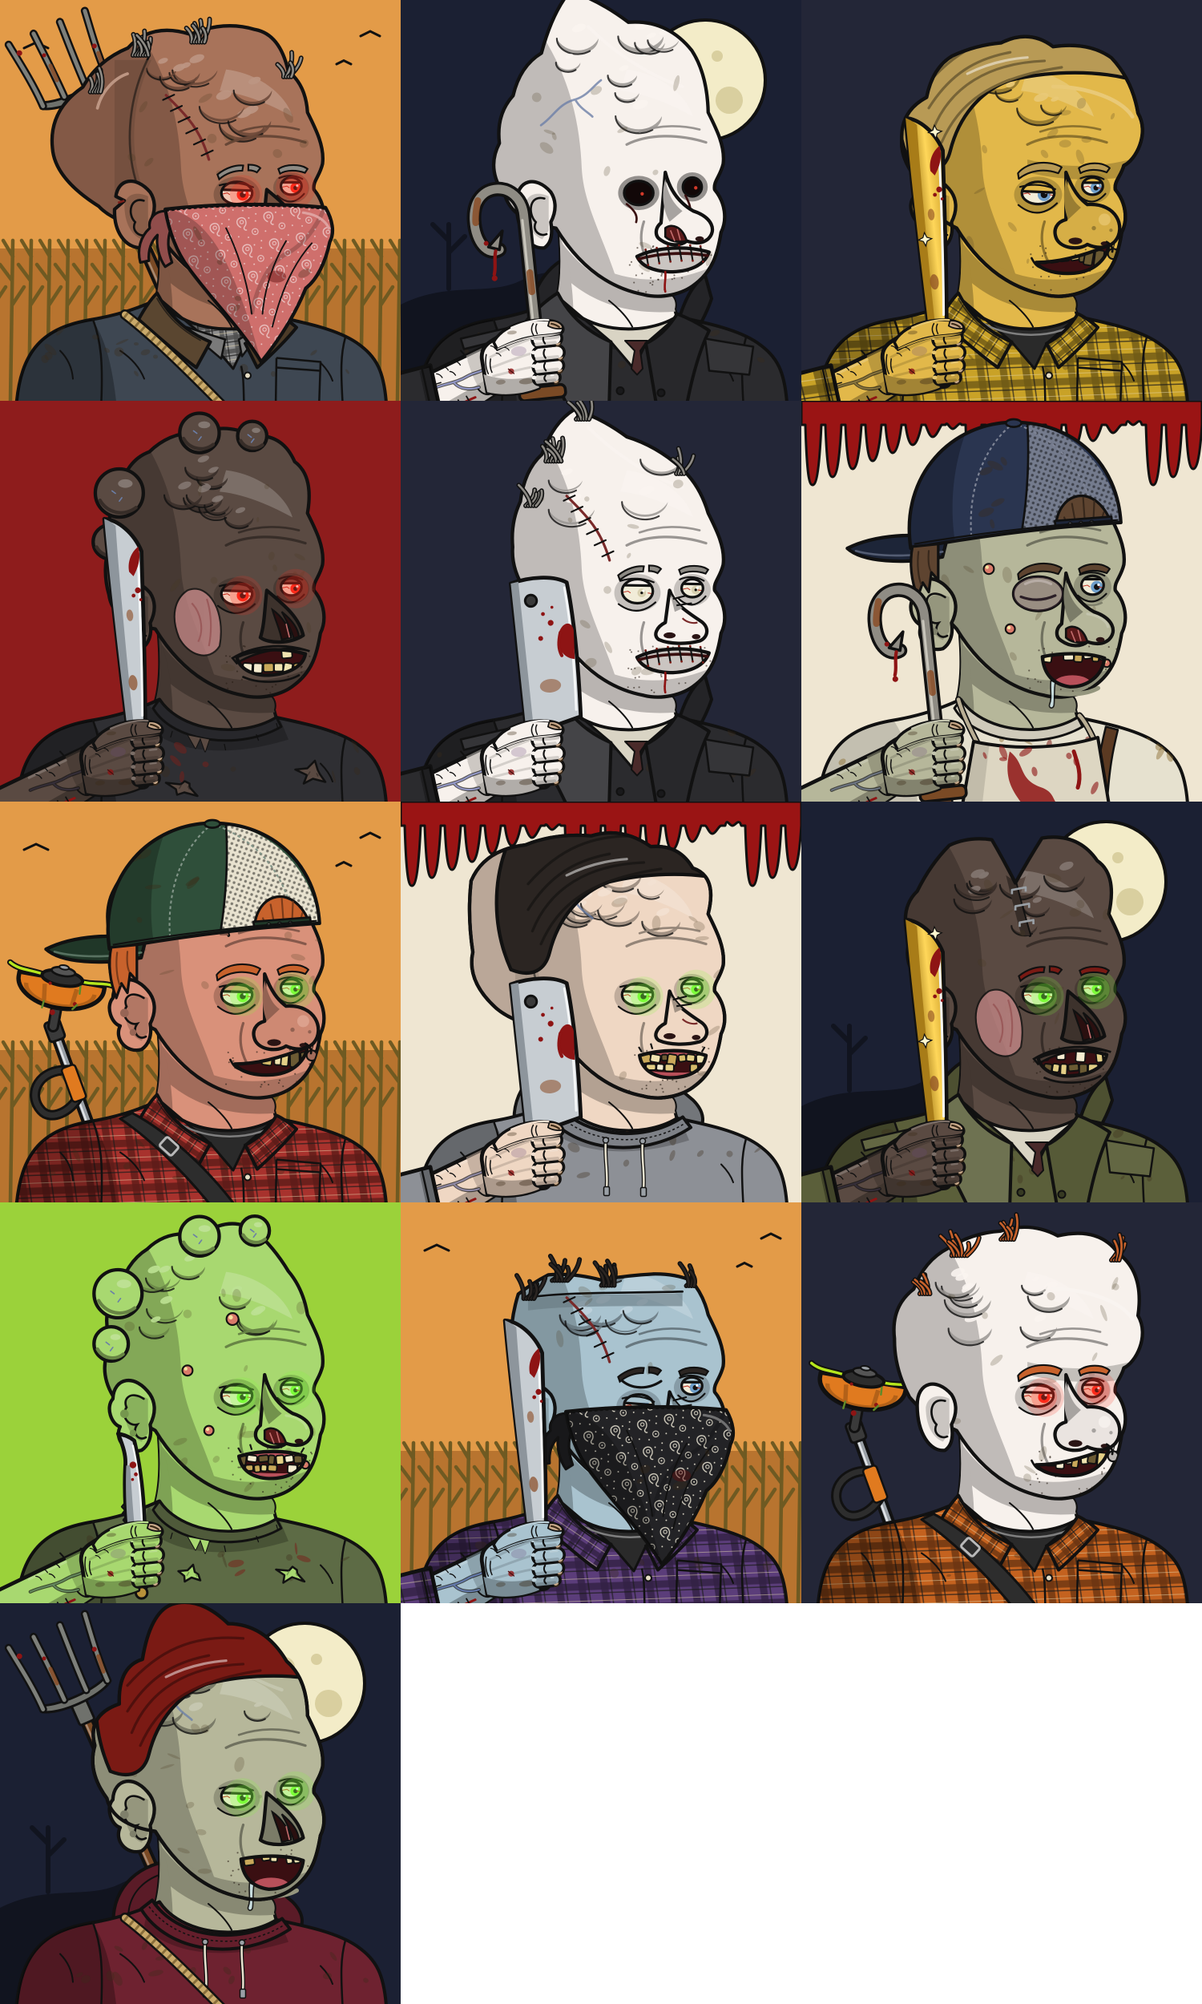
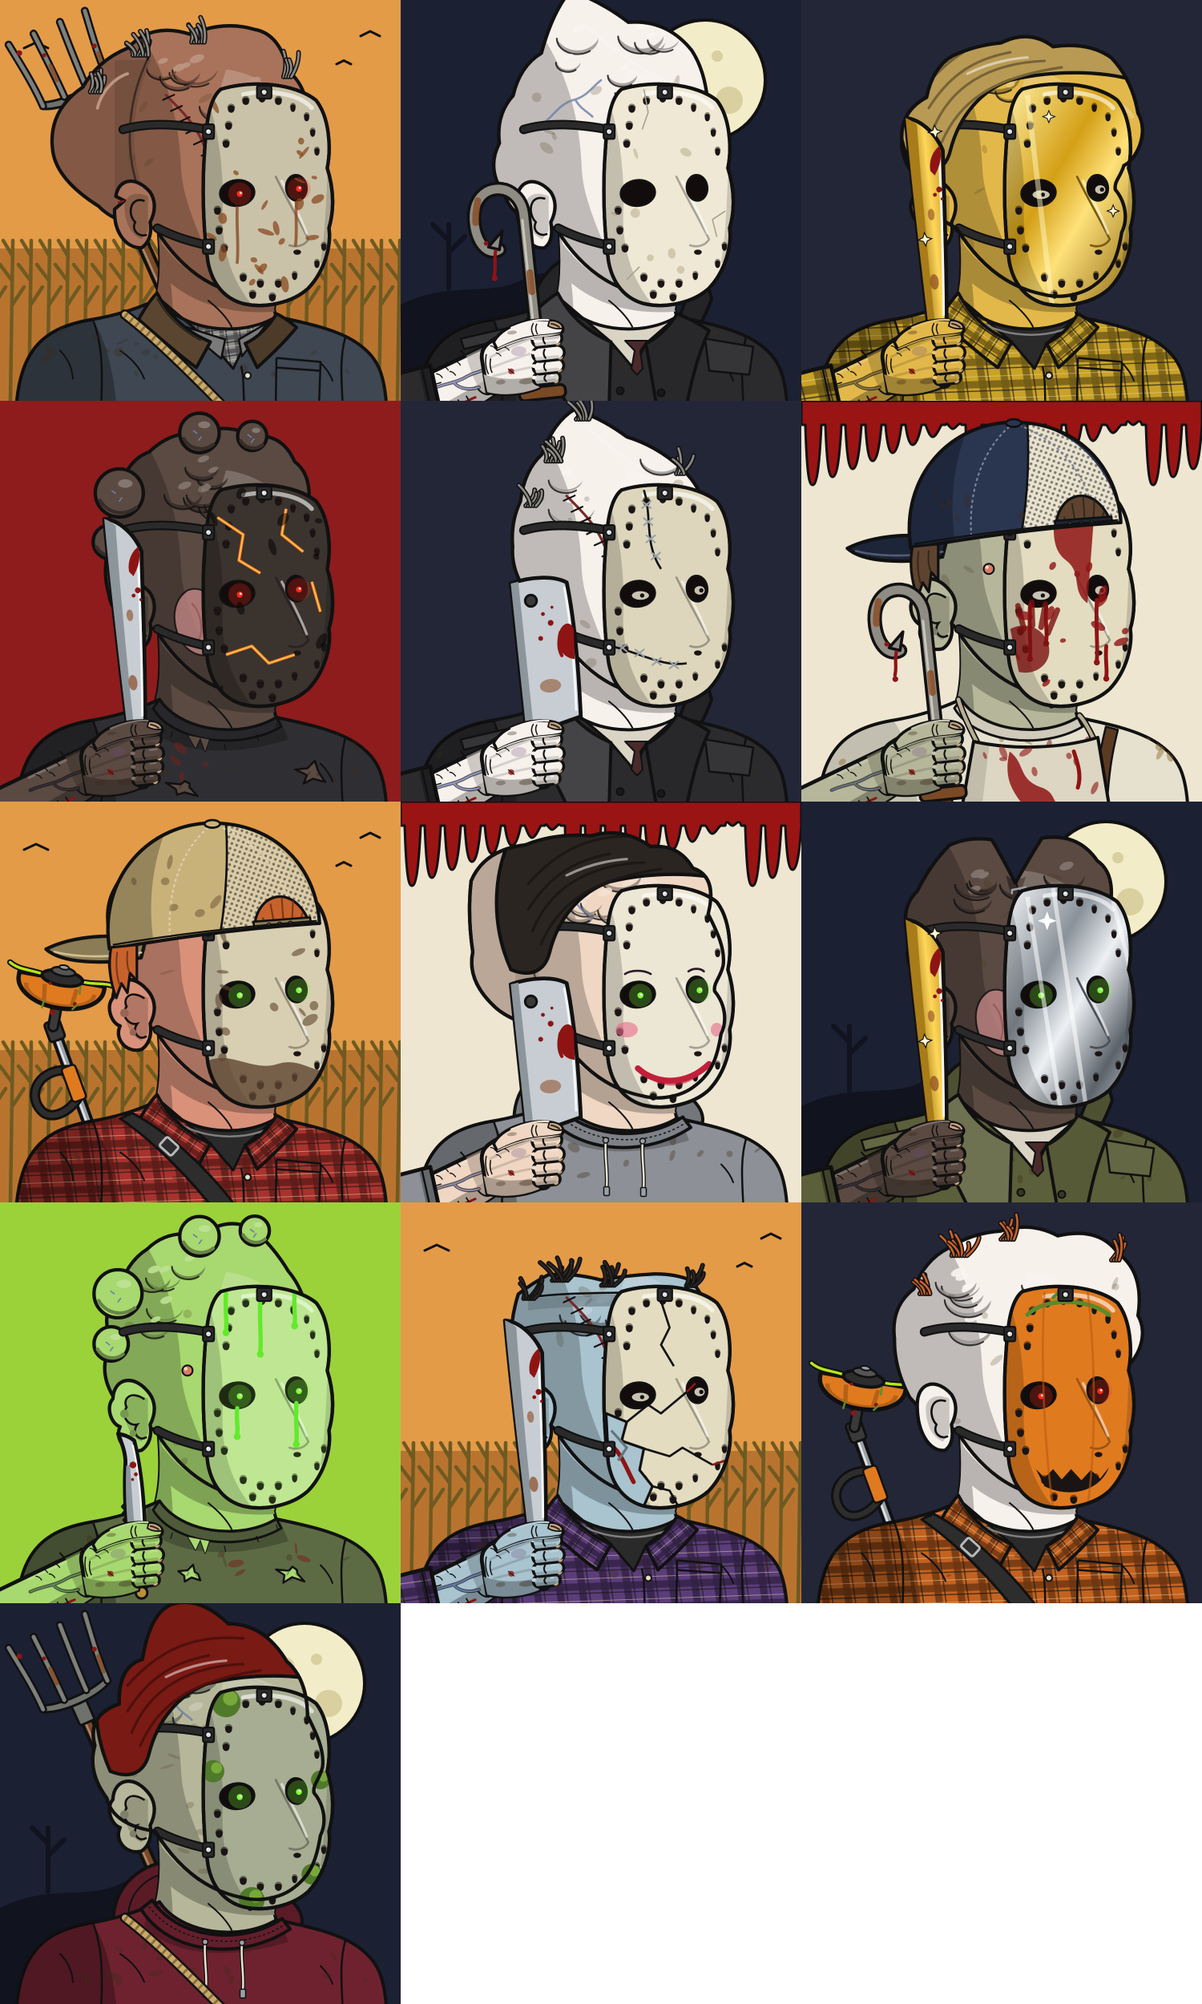
Give each 1/1 its own goalie mask finish
13 original goalie masks (Chrome, Bloody, Broken, Gold, Charred, Bone,
Rusted, Stitched, Muddy, Lipstick, Toxic, Jack-o'-Lantern, Mossy) as a
1/1-only Mask trait; masks replace the bandana.

Claude-Session: https://claude.ai/code/session_017UCt1z2AuBV5KmMuNTHD9R

diff --git a/generator/traits.py b/generator/traits.py
@@ -916,3 +916,155 @@ def bandana(kind, rng):
            # rolled top hem
            f'<path d="M 420 520 C 520 508 680 504 792 516" fill="none" stroke="{OUT}" stroke-width="3" stroke-dasharray="7 6"/>']
     return "".join(out)
+
+
+# --------------------------------------------------------------------------
+# Goalie masks (1/1 exclusive). Original design: breathing holes, straps and
+# rivets, each finish with its own markings.
+# --------------------------------------------------------------------------
+MASK_D = ("M 548 236 C 620 214 720 222 770 262 C 800 300 806 370 796 420 "
+          "C 812 470 812 520 800 560 C 806 600 790 660 752 700 "
+          "C 716 734 650 748 600 736 C 556 724 528 690 518 640 "
+          "C 506 560 504 460 510 380 C 514 310 522 256 548 236 Z")
+MASK_HOLES = ([(572, 282), (606, 264), (644, 258), (682, 264), (716, 280), (748, 302),
+               (566, 322), (762, 338), (560, 364), (772, 382)]
+              + [(540, 520), (544, 566), (556, 608), (788, 604), (772, 644)]
+              + [(600, 676), (640, 690), (682, 690), (720, 672), (622, 716), (668, 722)])
+MASKS = {
+    "Chrome Mask": "chrome", "Bloody Mask": "#e3dcc0", "Broken Mask": "#e3dcc0", "Gold Mask": "gold",
+    "Charred Mask": "#3a332e", "Bone Mask": "#efe8d5", "Rusted Mask": "#c9c2a8", "Stitched Mask": "#ddd6bc",
+    "Muddy Mask": "#d8cfb2", "Lipstick Mask": "#ece6d4", "Toxic Mask": "#c9e3a0", "Jack-o'-Lantern Mask": "#e07a1f",
+    "Mossy Mask": "#a7ad92",
+}
+
+
+def mask(kind, skin, eyes_kind, rng):
+    if kind not in MASKS:
+        return ""
+    base = MASKS[kind]
+    defs = '<clipPath id="maskclip"><path d="' + MASK_D + '"/></clipPath>'
+    if base == "chrome":
+        defs += ('<linearGradient id="maskfill" x1="0" y1="0" x2="1" y2="1">'
+                 '<stop offset="0" stop-color="#f7f9fb"/><stop offset="0.35" stop-color="#8a929a"/>'
+                 '<stop offset="0.55" stop-color="#eef1f4"/><stop offset="0.8" stop-color="#5c636b"/>'
+                 '<stop offset="1" stop-color="#c9ced3"/></linearGradient>')
+        fill, edge = "url(#maskfill)", "#4a5058"
+    elif base == "gold":
+        defs += ('<linearGradient id="maskfill" x1="0" y1="0" x2="1" y2="1">'
+                 '<stop offset="0" stop-color="#fff1a8"/><stop offset="0.4" stop-color="#d4a017"/>'
+                 '<stop offset="0.6" stop-color="#ffe27a"/><stop offset="1" stop-color="#8a6510"/></linearGradient>')
+        fill, edge = "url(#maskfill)", "#7a5a10"
+    else:
+        fill, edge = base, shade(base, 0.7)
+    light = "#ffffff"
+    out = [f'<defs>{defs}</defs>',
+           # strap band running back around the skull, and the side tabs
+           f'<path d="M 516 330 C 450 318 380 312 320 330 M 516 600 C 470 590 430 576 400 560" fill="none" stroke="{OUT}" stroke-width="22" stroke-linecap="round"/>',
+           f'<path d="M 516 330 C 450 318 380 312 320 330 M 516 600 C 470 590 430 576 400 560" fill="none" stroke="#2a2a2a" stroke-width="14" stroke-linecap="round"/>',
+           f'<path d="{MASK_D}" fill="{fill}" stroke="{OUT}" stroke-width="{SW}" stroke-linejoin="round"/>',
+           '<g clip-path="url(#maskclip)">',
+           # cel shading: near side turning away, far edge, under the chin
+           f'<path d="M 500 220 C 540 300 556 420 552 520 C 548 620 580 700 640 760 L 480 760 L 480 220 Z" fill="#000" opacity="0.18"/>',
+           f'<path d="M 812 300 C 790 400 800 520 780 640 L 830 640 L 830 300 Z" fill="#000" opacity="0.15"/>',
+           f'<path d="M 600 248 C 660 236 730 246 760 280" fill="none" stroke="{light}" stroke-width="10" stroke-linecap="round" opacity="0.6"/>',
+           # moulded nose ridge
+           f'<path d="M 676 440 C 700 490 730 540 752 586 C 744 600 726 606 708 600" fill="none" stroke="{edge}" stroke-width="5" stroke-linecap="round"/>',
+           f'<path d="M 690 450 C 712 494 734 534 748 572" fill="none" stroke="{light}" stroke-width="6" stroke-linecap="round" opacity="0.55"/>',
+           f'<ellipse cx="726" cy="616" rx="9" ry="6" fill="#1a1414"/>',
+           ]
+    # breathing holes, foreshortened toward the far side
+    for x, y in MASK_HOLES:
+        rx = 8 if x < 700 else 6
+        out.append(f'<ellipse cx="{x}" cy="{y}" rx="{rx}" ry="9" fill="#1a1414"/>'
+                   f'<path d="M {x - rx} {y - 2} A {rx} 9 0 0 1 {x + rx} {y - 2}" fill="none" stroke="#000" stroke-width="2.5" opacity="0.5"/>')
+    # eye holes, with whatever eyes are behind them
+    glow = {"Glowing Red": "#ff2a1a", "Glowing Green": "#7dff3a"}.get(eyes_kind)
+    for cx, cy, rx, ry in ((586, 478, 40, 30), (724, 466, 24, 30)):
+        out.append(f'<ellipse cx="{cx}" cy="{cy}" rx="{rx}" ry="{ry}" fill="#120c0c" stroke="{OUT}" stroke-width="5" transform="rotate(-6 {cx} {cy})"/>')
+        if glow:
+            out.append(f'<circle cx="{cx + 6}" cy="{cy + 2}" r="{ry * 0.9:.0f}" fill="{glow}" opacity="0.25"/>'
+                       f'<circle cx="{cx + 6}" cy="{cy + 2}" r="7" fill="{glow}"/><circle cx="{cx + 8}" cy="{cy}" r="2.5" fill="#fff"/>')
+        elif eyes_kind != "Hollow Sockets":
+            out.append(f'<ellipse cx="{cx + 6}" cy="{cy + 4}" rx="{rx * 0.5:.0f}" ry="{ry * 0.35:.0f}" fill="#e9e3cf" opacity="0.85"/>'
+                       f'<circle cx="{cx + 10}" cy="{cy + 4}" r="5" fill="#111"/>')
+    # finishes
+    if kind == "Chrome Mask":
+        out.append('<path d="M 560 250 L 640 760 M 620 230 L 700 760 M 760 260 L 800 420" stroke="#ffffff" stroke-width="10" opacity="0.55"/>')
+        out.append('<path d="M 600 300 l 6 -16 l 6 16 l 16 6 l -16 6 l -6 16 l -6 -16 l -16 -6 Z" fill="#fff"/>')
+    elif kind == "Bloody Mask":
+        out.append('<path d="M 600 236 C 640 300 600 360 650 400 C 690 430 660 470 700 500 L 720 236 Z" fill="#8e1414" opacity="0.85"/>')
+        for x, y, L in ((566, 504, 120), (604, 508, 80), (722, 492, 140), (744, 600, 70)):
+            out.append(f'<path d="M {x} {y} C {x - 3} {y + L * 0.5:.0f} {x + 3} {y + L * 0.8:.0f} {x} {y + L}" fill="none" stroke="#8e1414" stroke-width="9" stroke-linecap="round"/>'
+                       f'<circle cx="{x}" cy="{y + L + 6}" r="7" fill="#8e1414"/>')
+        out.append(_grime(rng, 520, 790, 260, 720, 14, "#8e1414", 0.8))
+        # bloody hand print smeared across the near cheek
+        out.append('<path d="M 520 560 C 560 540 600 560 610 600 C 618 640 580 670 540 660 Z" fill="#7a1010" opacity="0.8"/>'
+                   + "".join(f'<path d="M {x} {y} l {dx} -54" stroke="#7a1010" stroke-width="13" stroke-linecap="round" opacity="0.8"/>'
+                             for x, y, dx in ((552, 560, -14), (572, 552, -2), (592, 556, 10), (608, 570, 22))))
+    elif kind == "Broken Mask":
+        # a chunk broken out of the near cheek shows the wounded face beneath
+        chunk = "M 512 520 L 560 540 L 548 584 L 600 602 L 590 652 L 620 690 L 600 736 C 556 724 528 690 518 640 Z"
+        out.append(f'<path d="{chunk}" fill="{skin}" stroke="{OUT}" stroke-width="6" stroke-linejoin="round"/>'
+                   f'<path d="M 530 600 C 550 620 560 650 576 680" fill="none" stroke="#8e1414" stroke-width="10" stroke-linecap="round"/>'
+                   f'<path d="M 524 560 L 560 600 L 540 630" fill="none" stroke="{shade(skin, 0.6)}" stroke-width="6"/>')
+        for c in ("M 560 540 L 610 500 L 640 520 L 700 470",
+                  "M 600 602 L 660 620 L 690 600 L 760 640",
+                  "M 620 690 L 660 700 L 680 736",
+                  "M 640 258 L 660 320 L 640 360 L 670 410"):
+            out.append(f'<path d="{c}" fill="none" stroke="{OUT}" stroke-width="5" stroke-linejoin="round"/>')
+        out.append('<path d="M 760 640 L 790 630 M 700 470 L 720 450" stroke="#8e1414" stroke-width="5"/>')
+    elif kind == "Gold Mask":
+        out += [f'<path d="M {x} {y - 14} L {x + 4} {y - 4} L {x + 14} {y} L {x + 4} {y + 4} L {x} {y + 14} L {x - 4} {y + 4} L {x - 14} {y} L {x - 4} {y - 4} Z" fill="#fff8d0" stroke="#111" stroke-width="2"/>'
+                for x, y in ((610, 300), (760, 520))]
+        out.append('<path d="M 560 250 L 620 760" stroke="#fff6c0" stroke-width="12" opacity="0.5"/>')
+    elif kind == "Charred Mask":
+        for c in ("M 540 300 L 600 340 L 590 400 L 640 430", "M 700 280 L 690 340 L 740 380",
+                  "M 560 620 L 620 600 L 660 640 L 720 620", "M 760 450 L 780 520"):
+            out.append(f'<path d="{c}" fill="none" stroke="#ff7a1a" stroke-width="7" stroke-linejoin="round"/>'
+                       f'<path d="{c}" fill="none" stroke="#ffd06a" stroke-width="2.5" stroke-linejoin="round"/>')
+        out.append(_grime(rng, 520, 790, 240, 720, 10, "#000", 0.5))
+    elif kind == "Bone Mask":
+        for c in ("M 600 236 L 610 290 L 596 330", "M 790 520 L 760 540 L 770 580", "M 560 680 L 590 650"):
+            out.append(f'<path d="{c}" fill="none" stroke="{edge}" stroke-width="3"/>')
+        out.append(_grime(rng, 520, 790, 240, 720, 8, "#8a7a52", 0.3))
+    elif kind == "Rusted Mask":
+        out.append(_grime(rng, 520, 790, 240, 720, 22, "#8a4a22", 0.75))
+        out.append('<path d="M 586 512 C 584 560 590 600 586 640 M 724 500 C 722 540 726 570 722 600" fill="none" stroke="#8a4a22" stroke-width="7" stroke-linecap="round" opacity="0.8"/>')
+    elif kind == "Stitched Mask":
+        for c, pts in (("M 600 236 C 620 300 600 360 640 420", ((606, 270), (610, 310), (616, 350), (628, 390))),
+                       ("M 520 600 C 580 610 640 650 700 640", ((550, 604), (590, 616), (630, 636), (670, 644)))):
+            out.append(f'<path d="{c}" fill="none" stroke="{OUT}" stroke-width="5"/>')
+            out += [f'<path d="M {x - 10} {y - 8} L {x + 10} {y + 8} M {x - 10} {y + 8} L {x + 10} {y - 8}" stroke="#9aa0a6" stroke-width="4" stroke-linecap="round"/>' for x, y in pts]
+    elif kind == "Muddy Mask":
+        out.append('<path d="M 506 640 C 560 600 620 660 680 640 C 740 620 780 680 800 640 L 800 760 L 506 760 Z" fill="#5e4430" opacity="0.8"/>')
+        out.append(_grime(rng, 520, 790, 240, 640, 16, "#5e4430", 0.6))
+    elif kind == "Lipstick Mask":
+        out.append('<path d="M 586 650 C 630 690 700 690 752 640" fill="none" stroke="#c21f3a" stroke-width="14" stroke-linecap="round"/>'
+                   '<path d="M 600 660 C 640 700 700 696 740 652" fill="none" stroke="#c21f3a" stroke-width="5" opacity="0.6"/>'
+                   '<ellipse cx="560" cy="560" rx="26" ry="18" fill="#e86a8a" opacity="0.6"/>'
+                   '<ellipse cx="770" cy="560" rx="14" ry="16" fill="#e86a8a" opacity="0.6"/>'
+                   '<path d="M 556 430 C 570 420 600 420 616 430 M 704 424 C 714 416 732 416 740 424" fill="none" stroke="#2a1a2a" stroke-width="5" stroke-linecap="round"/>')
+    elif kind == "Toxic Mask":
+        for x, y, L in ((560, 236, 90), (640, 236, 140), (720, 240, 70), (586, 508, 60), (724, 496, 90)):
+            out.append(f'<path d="M {x} {y} C {x - 3} {y + L * 0.5:.0f} {x + 3} {y + L * 0.8:.0f} {x} {y + L}" fill="none" stroke="#5ee82a" stroke-width="10" stroke-linecap="round"/>'
+                       f'<circle cx="{x}" cy="{y + L + 6}" r="8" fill="#5ee82a"/>')
+        out.append('<path d="' + MASK_D + '" fill="#7dff3a" opacity="0.12"/>')
+    elif kind == "Jack-o'-Lantern Mask":
+        out.append('<path d="M 580 650 L 600 670 L 620 650 L 640 674 L 662 650 L 686 676 L 708 652 L 730 672 L 750 646 '
+                   'C 730 700 660 720 600 690 Z" fill="#1a1414"/>'
+                   '<path d="M 560 290 C 600 250 700 250 750 290" fill="none" stroke="#5a8a2a" stroke-width="10" stroke-linecap="round"/>'
+                   '<path d="M 620 250 C 640 230 660 220 690 224" fill="none" stroke="#5a8a2a" stroke-width="8" stroke-linecap="round"/>')
+        out.append('<path d="M 600 236 C 590 400 600 600 620 740 M 700 230 C 720 400 720 600 700 740" fill="none" stroke="#b85a10" stroke-width="5" opacity="0.6"/>')
+    elif kind == "Mossy Mask":
+        for x, y, r in ((560, 260, 34), (530, 420, 26), (780, 440, 22), (620, 720, 30), (760, 660, 24)):
+            out.append(f'<circle cx="{x}" cy="{y}" r="{r}" fill="#4f7a2a"/>'
+                       f'<circle cx="{x + r * 0.3:.0f}" cy="{y - r * 0.3:.0f}" r="{r * 0.5:.0f}" fill="#79a83a"/>')
+        out.append('<path d="M 760 700 C 762 730 756 750 760 780" fill="none" stroke="#4f7a2a" stroke-width="5"/>')
+    out.append('</g>')
+    out.append(f'<path d="{MASK_D}" fill="none" stroke="{OUT}" stroke-width="{SW}" stroke-linejoin="round"/>')
+    # strap tabs with rivets
+    for x, y, w, h in ((632, 228, 34, 30), (506, 318, 26, 34), (506, 586, 26, 34)):
+        out.append(f'<rect x="{x}" y="{y}" width="{w}" height="{h}" rx="4" fill="#2a2a2a" stroke="{OUT}" stroke-width="4"/>'
+                   f'<circle cx="{x + w / 2:.0f}" cy="{y + h / 2:.0f}" r="7" fill="#d8dde1" stroke="{OUT}" stroke-width="3"/>'
+                   f'<circle cx="{x + w / 2 - 2:.0f}" cy="{y + h / 2 - 2:.0f}" r="2.5" fill="#fff"/>')
+    return "".join(out)

diff --git a/generator/generate.py b/generator/generate.py
@@ -91,11 +91,15 @@ ONE_OF_ONES = [
                        "Slack Jaw", "Greasy Comb-over", "Blood-Matted", "Maroon Hoodie", "Veins", "Pitchfork")),
 ]
 ONE_OF_ONE_SHAPES = {'The Harvester': 'Lopsided', 'Moonface': 'Cone Head', 'Old Gilded': 'Brow Bulge', 'Cinder': 'Tumor Cluster', 'The Pale Deacon': 'Cone Head', 'Hookjaw': 'Flat Top', 'Silo Sam': 'Split Skull', "Mother's Boy": 'Lopsided', 'The Thirteenth': 'Split Skull', 'Gristle': 'Tumor Cluster', 'Crow Bait': 'Flat Top', 'Lantern Jack': 'Brow Bulge', 'Swamp Saint': 'Cone Head'}
+ONE_OF_ONE_MASKS = {'The Harvester': 'Rusted Mask', 'Moonface': 'Bone Mask', 'Old Gilded': 'Gold Mask', 'Cinder': 'Charred Mask', 'The Pale Deacon': 'Stitched Mask', 'Hookjaw': 'Bloody Mask', 'Silo Sam': 'Muddy Mask', "Mother's Boy": 'Lipstick Mask', 'The Thirteenth': 'Chrome Mask', 'Gristle': 'Toxic Mask', 'Crow Bait': 'Broken Mask', 'Lantern Jack': "Jack-o'-Lantern Mask", 'Swamp Saint': 'Mossy Mask'}
 for _name, _a in ONE_OF_ONES:
     _a["Head Shape"] = ONE_OF_ONE_SHAPES[_name]
+    _a["Bandana"] = "None"  # the mask replaces it
+    _a["Mask"] = ONE_OF_ONE_MASKS[_name]
 EXCLUSIVE = {"Background": {"Full Moon", "Cornfield", "Blood Drip"},
              "Skin Tone": {"Charred", "Gilded", "Albino"},
-             "Eyes": {"Glowing Green"}}
+             "Eyes": {"Glowing Green"},
+             "Mask": set(ONE_OF_ONE_MASKS.values())}
 
 HEAD_T = "translate(-35 25) scale(1.07)"
 SWELL = {"Mild": 14, "Lumpy": 34, "Grotesque": 58}
@@ -130,7 +134,8 @@ def compose(attrs, seed):
         T.brows(attrs["Brows"], hair_c),
         T.nose(attrs["Nose"], skin),
         T.mouth(attrs["Mouth"], skin, rng),
-        T.bandana(attrs.get("Bandana", "None"), rng),
+        T.bandana(attrs.get("Bandana", "None"), rng) if attrs.get("Mask", "None") == "None" else "",
+        T.mask(attrs.get("Mask", "None"), skin, attrs["Eyes"], rng),
         T.hair(attrs["Hair"], hair_c, rng),
         '</g>',
         W.held(attrs.get("Weapon", "None"), skin, T.sleeve_fill(attrs["Clothing"])),
@@ -208,15 +213,15 @@ def build_collection(root):
 
 
 def report(root, tokens, n_generic):
-    counts = {k: Counter() for k in WEIGHTS}
+    counts = {k: Counter() for k in list(WEIGHTS) + ["Mask"]}
     for _, attrs in tokens:
-        for k, v in attrs.items():
-            counts[k][v] += 1
+        for k in counts:
+            counts[k][attrs.get(k, "None")] += 1
     total = len(tokens)
     # rarity score: sum of (total / count) over traits; 1/1s always rank first
     scored = []
     for idx, (name, attrs) in enumerate(tokens, 1):
-        score = sum(total / counts[k][v] for k, v in attrs.items())
+        score = sum(total / counts[k][attrs.get(k, "None")] for k in counts)
         scored.append((name is not None, score, idx, name))
     scored.sort(reverse=True)
     rank = {idx: r for r, (_, _, idx, _) in enumerate(scored, 1)}

diff --git a/docs/RARITY.md b/docs/RARITY.md
@@ -8,12 +8,12 @@ Tiers by share of the collection: Common >= 10%, Uncommon 5-10%, Rare 2-5%, Epic
 
 | Token | Name | Rank |
 |---|---|---|
-| #76 | Lantern Jack | 10 |
-| #85 | The Pale Deacon | 12 |
-| #207 | Crow Bait | 11 |
+| #76 | Lantern Jack | 9 |
+| #85 | The Pale Deacon | 11 |
+| #207 | Crow Bait | 12 |
 | #305 | Mother's Boy | 4 |
 | #326 | The Thirteenth | 1 |
-| #415 | The Harvester | 9 |
+| #415 | The Harvester | 10 |
 | #425 | Old Gilded | 2 |
 | #432 | Cinder | 5 |
 | #444 | Hookjaw | 7 |
@@ -199,38 +199,57 @@ Tiers by share of the collection: Common >= 10%, Uncommon 5-10%, Rare 2-5%, Epic
 
 | Value | Count | Share | Tier |
 |---|---|---|---|
-| None | 1072 | 82.5% | Common |
+| None | 1074 | 82.6% | Common |
 | Red Bandana | 76 | 5.8% | Uncommon |
-| Black Bandana | 66 | 5.1% | Uncommon |
+| Black Bandana | 65 | 5.0% | Uncommon |
 | Blue Bandana | 60 | 4.6% | Rare |
-| Faded Paisley | 26 | 2.0% | Rare |
+| Faded Paisley | 25 | 1.9% | Epic |
+
+## Mask
+
+| Value | Count | Share | Tier |
+|---|---|---|---|
+| None | 1287 | 99.0% | Common |
+| Jack-o'-Lantern Mask (1/1 only) | 1 | 0.1% | Legendary |
+| Stitched Mask (1/1 only) | 1 | 0.1% | Legendary |
+| Broken Mask (1/1 only) | 1 | 0.1% | Legendary |
+| Lipstick Mask (1/1 only) | 1 | 0.1% | Legendary |
+| Chrome Mask (1/1 only) | 1 | 0.1% | Legendary |
+| Rusted Mask (1/1 only) | 1 | 0.1% | Legendary |
+| Gold Mask (1/1 only) | 1 | 0.1% | Legendary |
+| Charred Mask (1/1 only) | 1 | 0.1% | Legendary |
+| Bloody Mask (1/1 only) | 1 | 0.1% | Legendary |
+| Toxic Mask (1/1 only) | 1 | 0.1% | Legendary |
+| Bone Mask (1/1 only) | 1 | 0.1% | Legendary |
+| Mossy Mask (1/1 only) | 1 | 0.1% | Legendary |
+| Muddy Mask (1/1 only) | 1 | 0.1% | Legendary |
 
 ## Top 25 by rarity score
 
 | Rank | Token | Score |
 |---|---|---|
-| 1 | #326 - The Thirteenth | 1674 |
-| 2 | #425 - Old Gilded | 1569 |
-| 3 | #732 - Moonface | 1004 |
-| 4 | #305 - Mother's Boy | 989 |
-| 5 | #432 - Cinder | 874 |
-| 6 | #797 - Swamp Saint | 818 |
-| 7 | #444 - Hookjaw | 778 |
-| 8 | #1245 - Silo Sam | 770 |
-| 9 | #415 - The Harvester | 654 |
-| 10 | #76 - Lantern Jack | 609 |
-| 11 | #207 - Crow Bait | 587 |
-| 12 | #85 - The Pale Deacon | 577 |
-| 13 | #731 - Gristle | 478 |
-| 14 | #39 | 429 |
-| 15 | #582 | 425 |
-| 16 | #1090 | 421 |
-| 17 | #1208 | 420 |
-| 18 | #151 | 305 |
-| 19 | #1014 | 293 |
-| 20 | #529 | 283 |
-| 21 | #964 | 283 |
-| 22 | #178 | 260 |
-| 23 | #1138 | 211 |
-| 24 | #765 | 201 |
-| 25 | #986 | 198 |
+| 1 | #326 - The Thirteenth | 2974 |
+| 2 | #425 - Old Gilded | 2869 |
+| 3 | #732 - Moonface | 2304 |
+| 4 | #305 - Mother's Boy | 2289 |
+| 5 | #432 - Cinder | 2174 |
+| 6 | #797 - Swamp Saint | 2118 |
+| 7 | #444 - Hookjaw | 2078 |
+| 8 | #1245 - Silo Sam | 2070 |
+| 9 | #76 - Lantern Jack | 1909 |
+| 10 | #415 - The Harvester | 1905 |
+| 11 | #85 - The Pale Deacon | 1877 |
+| 12 | #207 - Crow Bait | 1869 |
+| 13 | #731 - Gristle | 1778 |
+| 14 | #39 | 430 |
+| 15 | #582 | 426 |
+| 16 | #1090 | 422 |
+| 17 | #1208 | 421 |
+| 18 | #151 | 306 |
+| 19 | #1014 | 294 |
+| 20 | #529 | 284 |
+| 21 | #964 | 284 |
+| 22 | #178 | 261 |
+| 23 | #1138 | 212 |
+| 24 | #765 | 202 |
+| 25 | #986 | 199 |

diff --git a/README.md b/README.md
@@ -24,7 +24,8 @@ node generator/render.js output/samples
 ## Collection
 1,300 PFPs: 1,287 generic ones with weighted traits (Common to Legendary) and 13
 named 1/1s that use exclusive traits (Full Moon, Cornfield and Blood Drip
-backgrounds; Charred, Gilded and Albino skin; Glowing Green eyes). Every PFP is a
+backgrounds; Charred, Gilded and Albino skin; Glowing Green eyes) and each wears
+one of 13 original goalie-mask finishes (Chrome, Bloody, Broken and more). Every PFP is a
 unique trait combination. Weights live in `WEIGHTS` in `generator/generate.py`;
 the generated breakdown is in `docs/RARITY.md`. The build is seeded, so it is
 reproducible.
